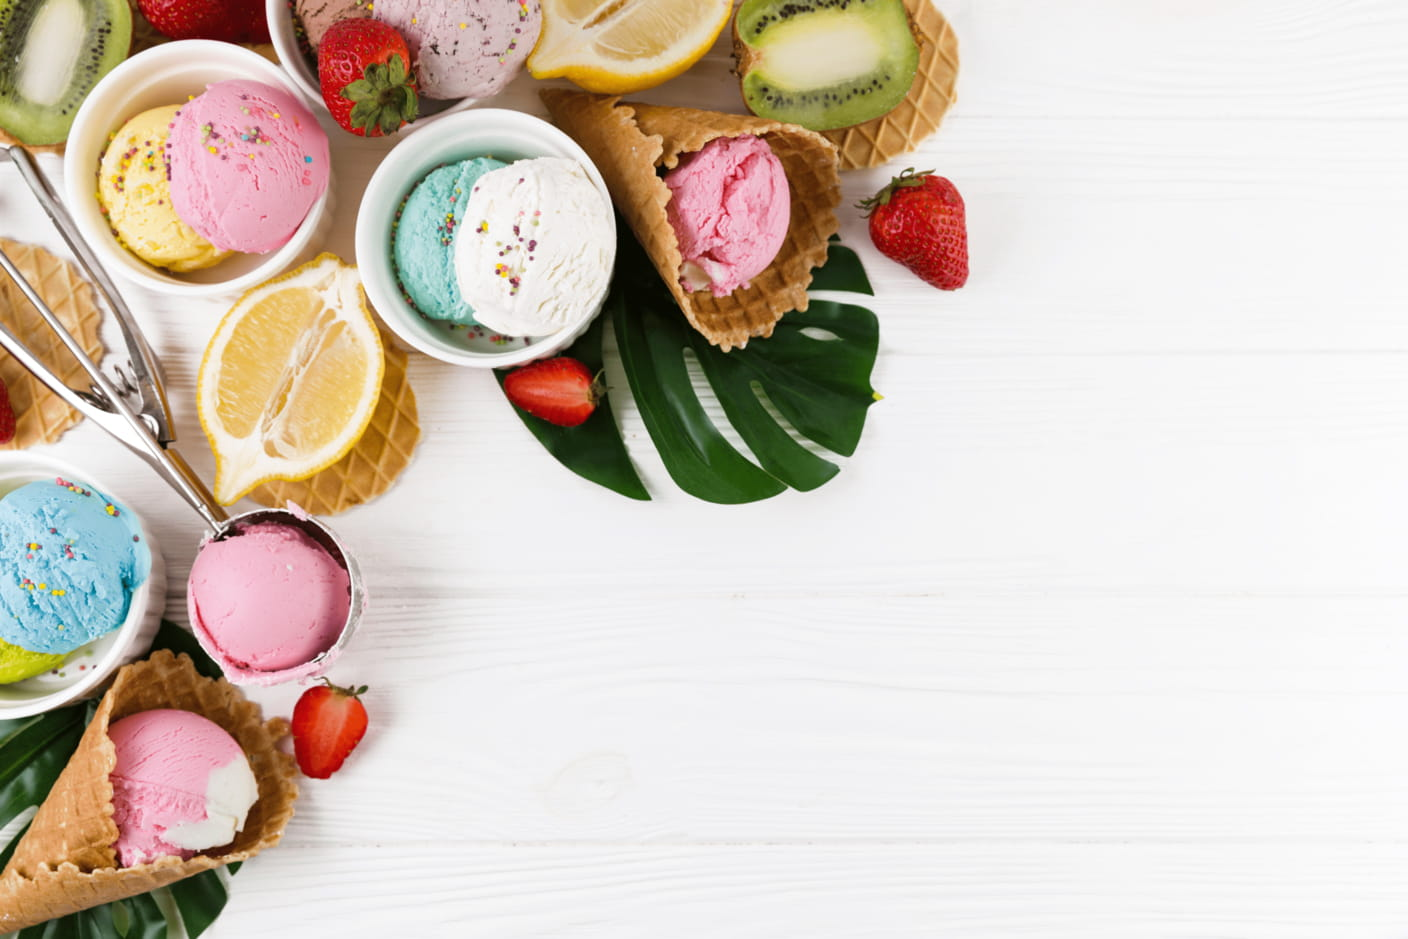
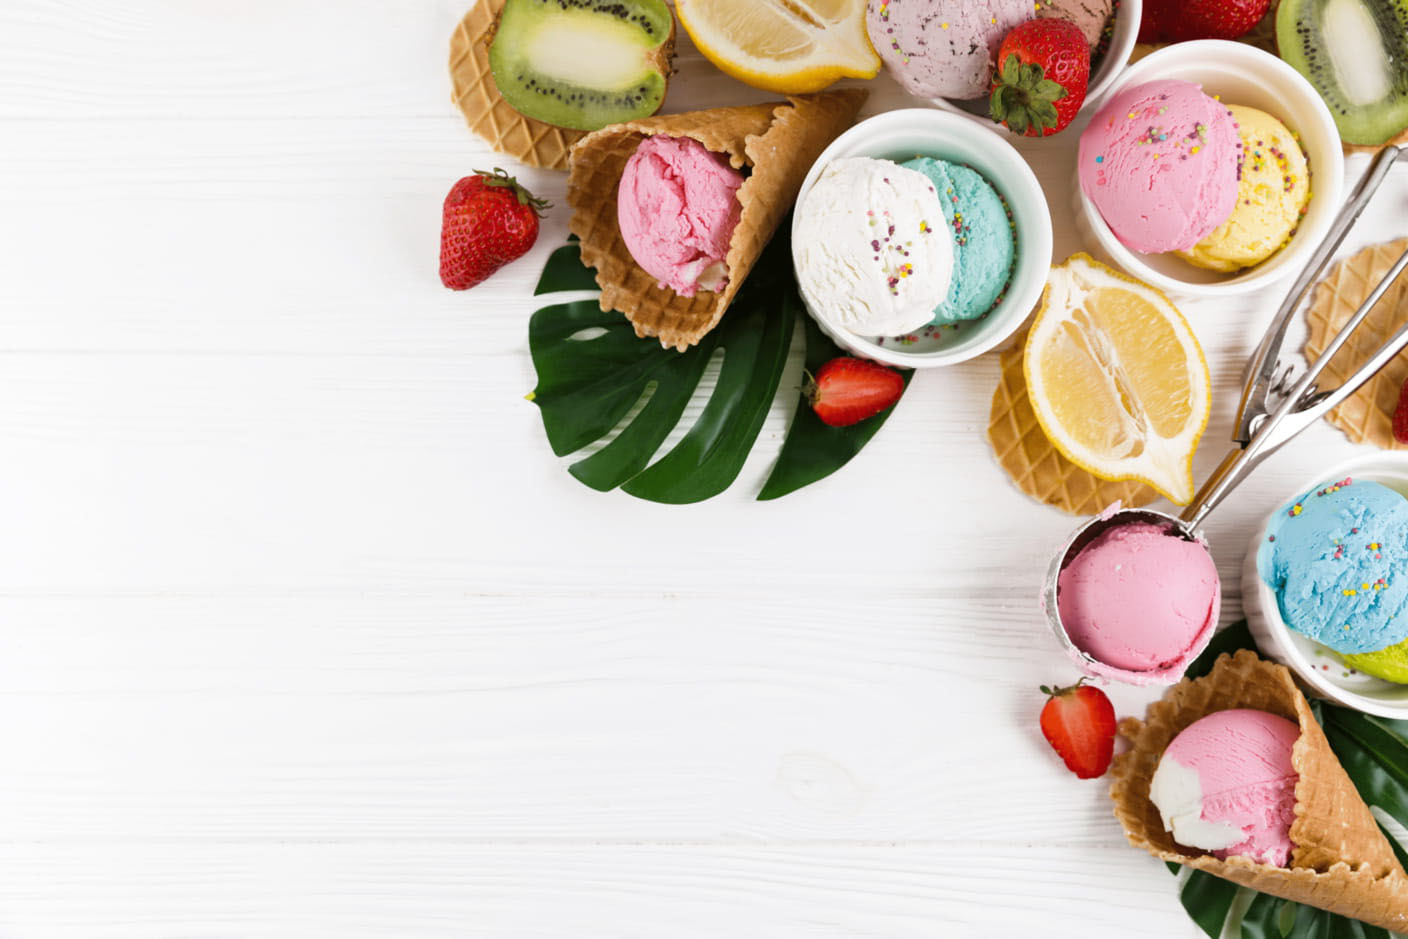
Добавляет фон

diff --git a/styles/styles.css b/styles/styles.css
@@ -270,6 +270,23 @@
   border-radius: 16px;
 }
 
+/* delivery */
+
+.delivery {
+  background-image: url("../images/background/delivery.jpg");
+  background-position: center;
+  background-repeat: no-repeat;
+  background-size: 100%;
+  border-radius: 16px;
+}
+
+.form-delivery {
+  padding: 40px;
+
+  background-color: #fcfcfc;
+  border-radius: 8px;
+}
+
 /* about-us */
 
 .about-us-wrapper {
